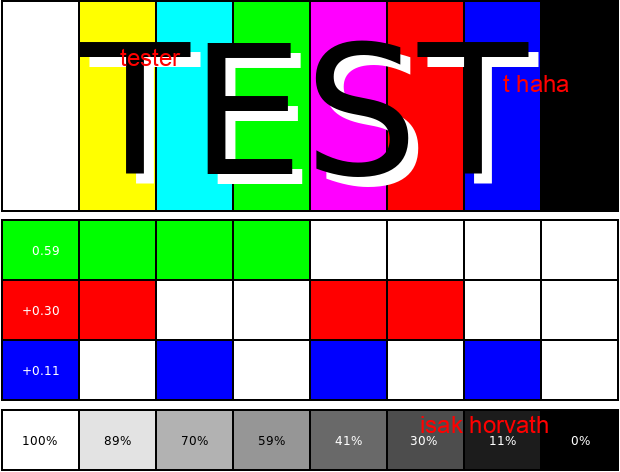
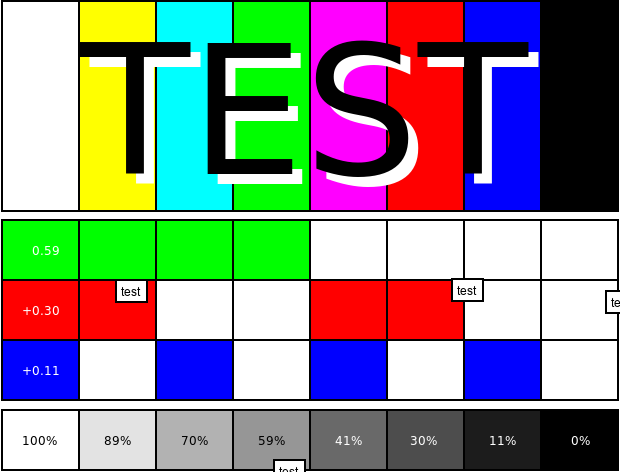
LBPNG: Improve label looks

diff --git a/lbpng.py b/lbpng.py
@@ -66,7 +66,9 @@ def process_labels(labels):
 def draw_label(path, out, labelpath):
     image = Image.open(path)
     draw = ImageDraw.Draw(image)
-    font = ImageFont.truetype("arial.ttf", size=24)
+    
+    font_size = 12
+    font = ImageFont.truetype("arial.ttf", size=font_size)
 
     labels = read_labels(labelpath)
     labels = process_labels(labels)
@@ -74,7 +76,19 @@ def draw_label(path, out, labelpath):
     for data in labels:
         meta = data['content']
         position = data['position']
-        color = (255, 0, 0)
+        color = (0, 0, 0)
+        text_width, text_height = draw.textsize(meta, font=font)
+        
+        padding = 4
+        stroke_width = 2
+        total_padding = padding + stroke_width
+        stroke_position = (position[0] - total_padding, position[1] - total_padding,
+                           position[0] + text_width + total_padding, position[1] + text_height + total_padding)
+        background_position = (position[0] - padding, position[1] - padding,
+                               position[0] + text_width + padding, position[1] + text_height + padding)
+        
+        draw.rectangle(stroke_position, fill=(0, 0, 0))
+        draw.rectangle(background_position, fill=(255, 255, 255))
         draw.text(position, meta, fill=color, font=font)
 
     image.save(out)
